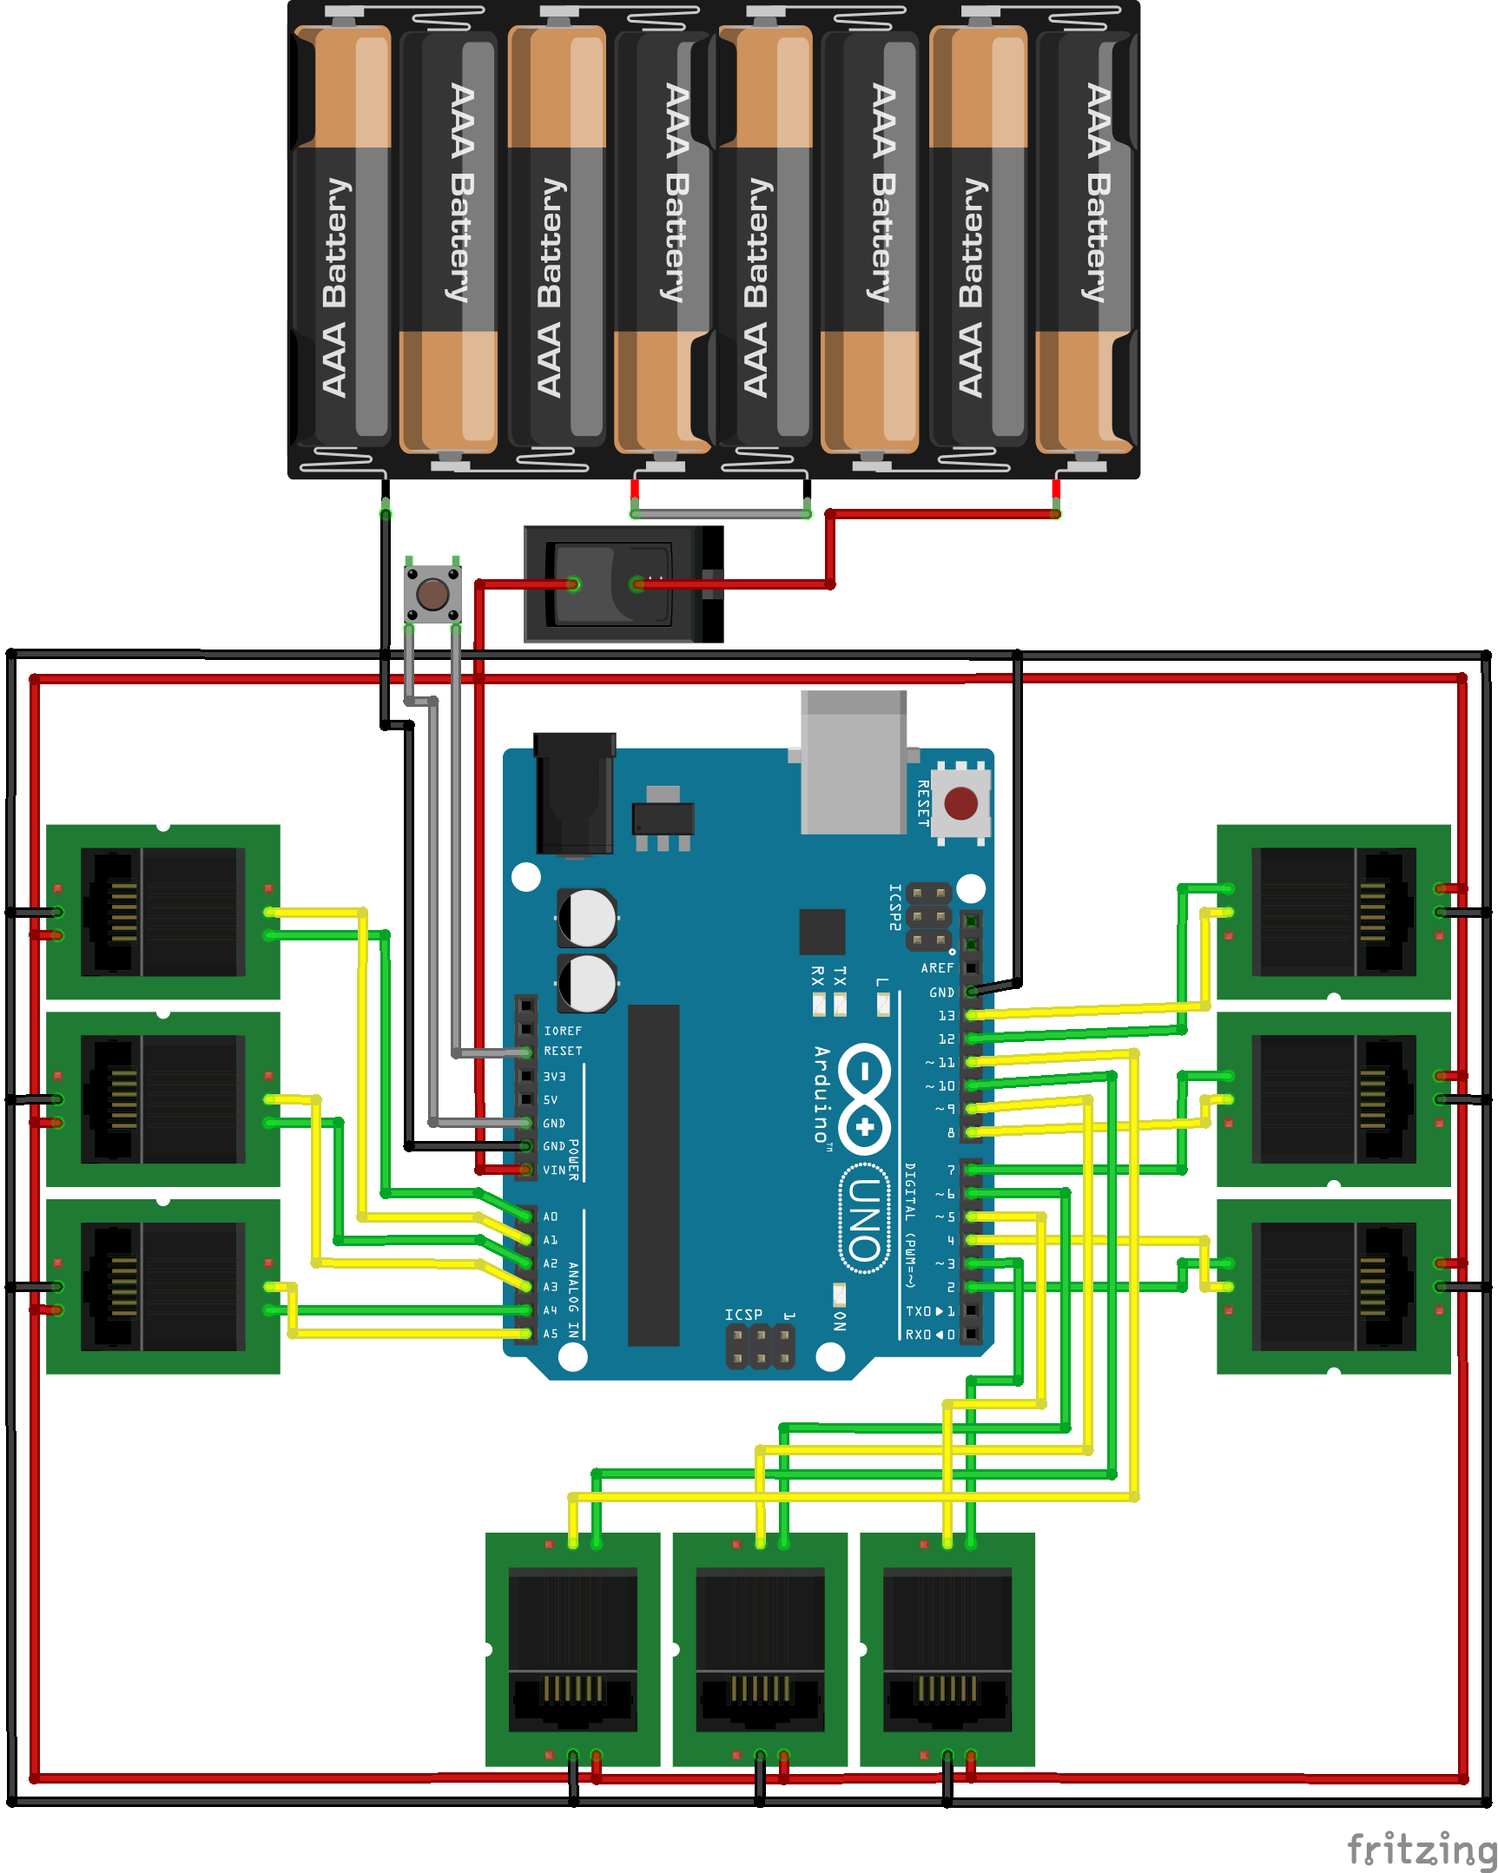
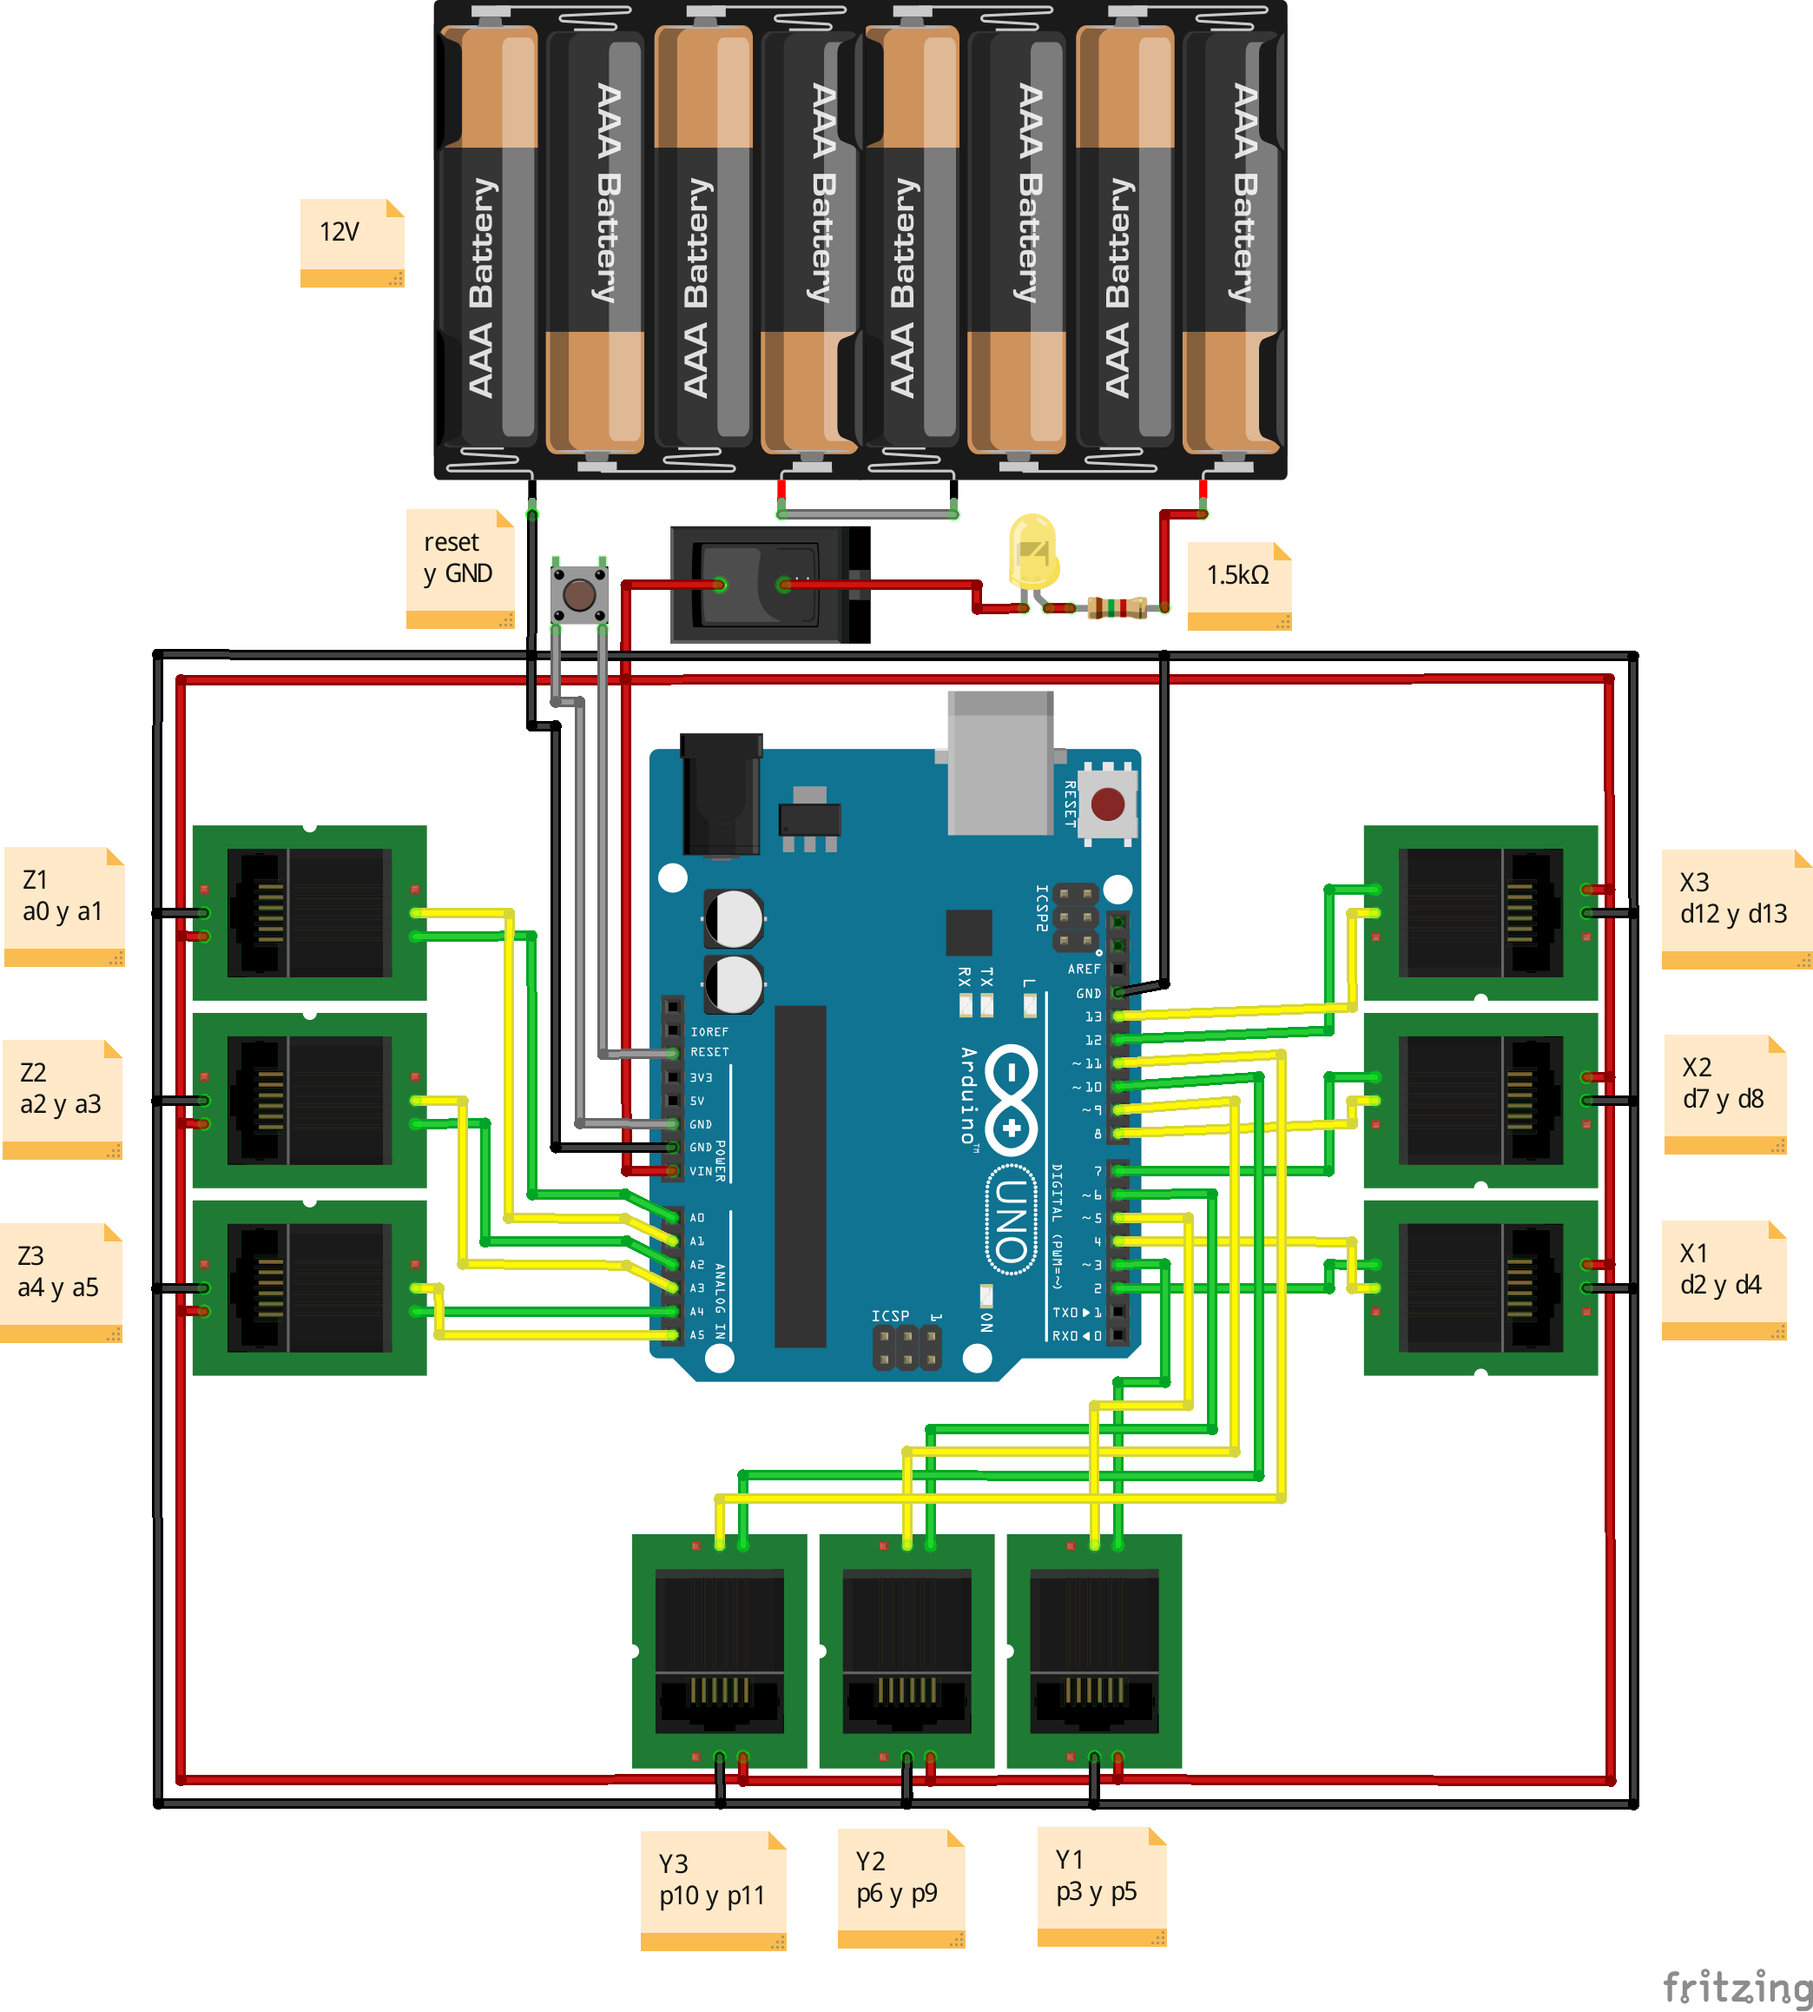
Exportación de imagen del circuito de Caparacho
Modificación del readme de Caparacho duro

diff --git a/caparacho-duro/README.md b/caparacho-duro/README.md
@@ -1,3 +1,7 @@
 ## Caparacho duro
 
 El componente principal que permitirá la comunicación con todos sus periféricos será como un escudo (shield) artesanal, que puede llegar a construirse también con elementos de reciclaje, se dispondrán diseños y tutoriales del armado del Caparacho y sus periféricos.
+
+Para armar la interfaz de conexión principal se necesitan pocos componentes, el diagrama se muestra a continuación
+
+![Circuito de Escudo Caparacho](./Caparacho_bb.png | width=100)
